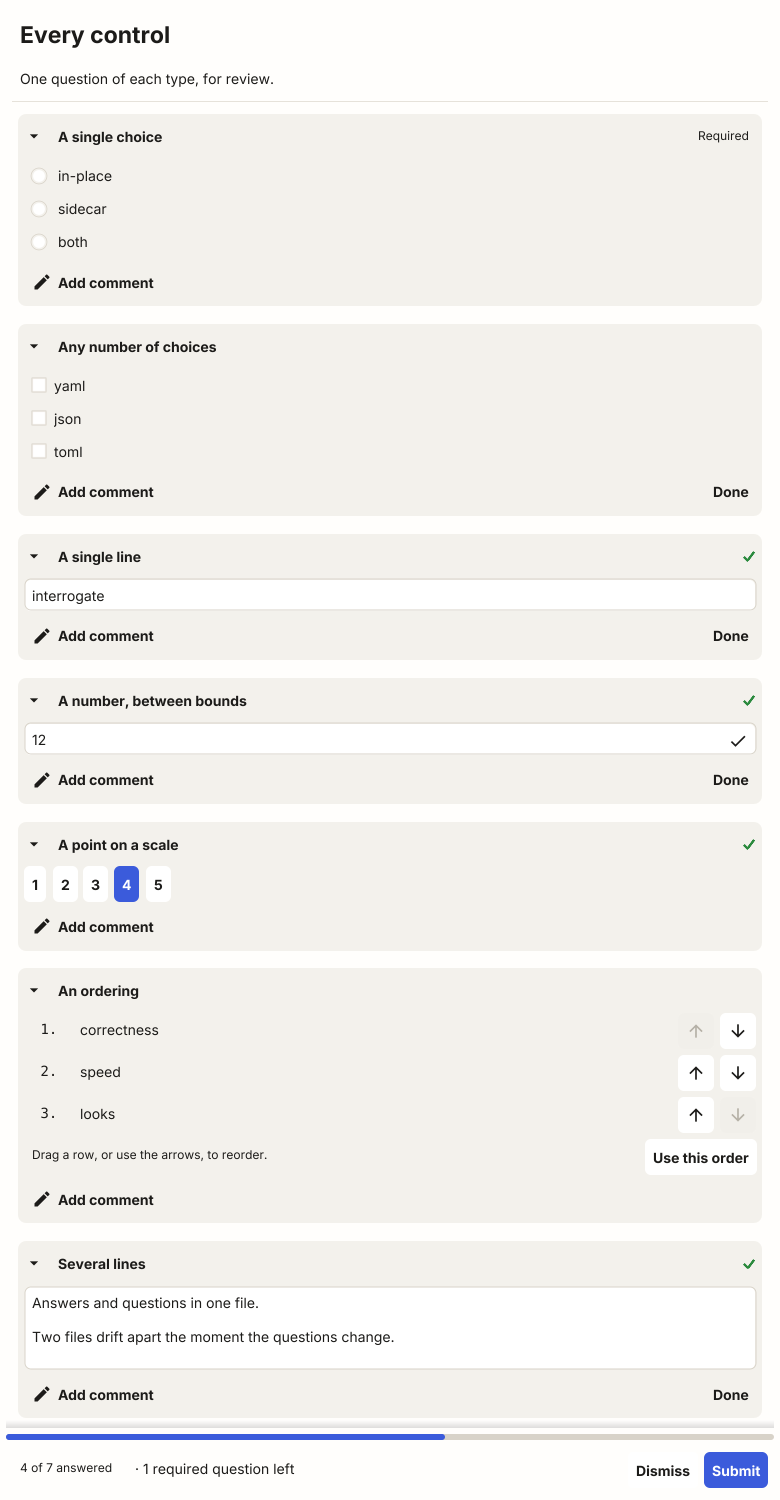
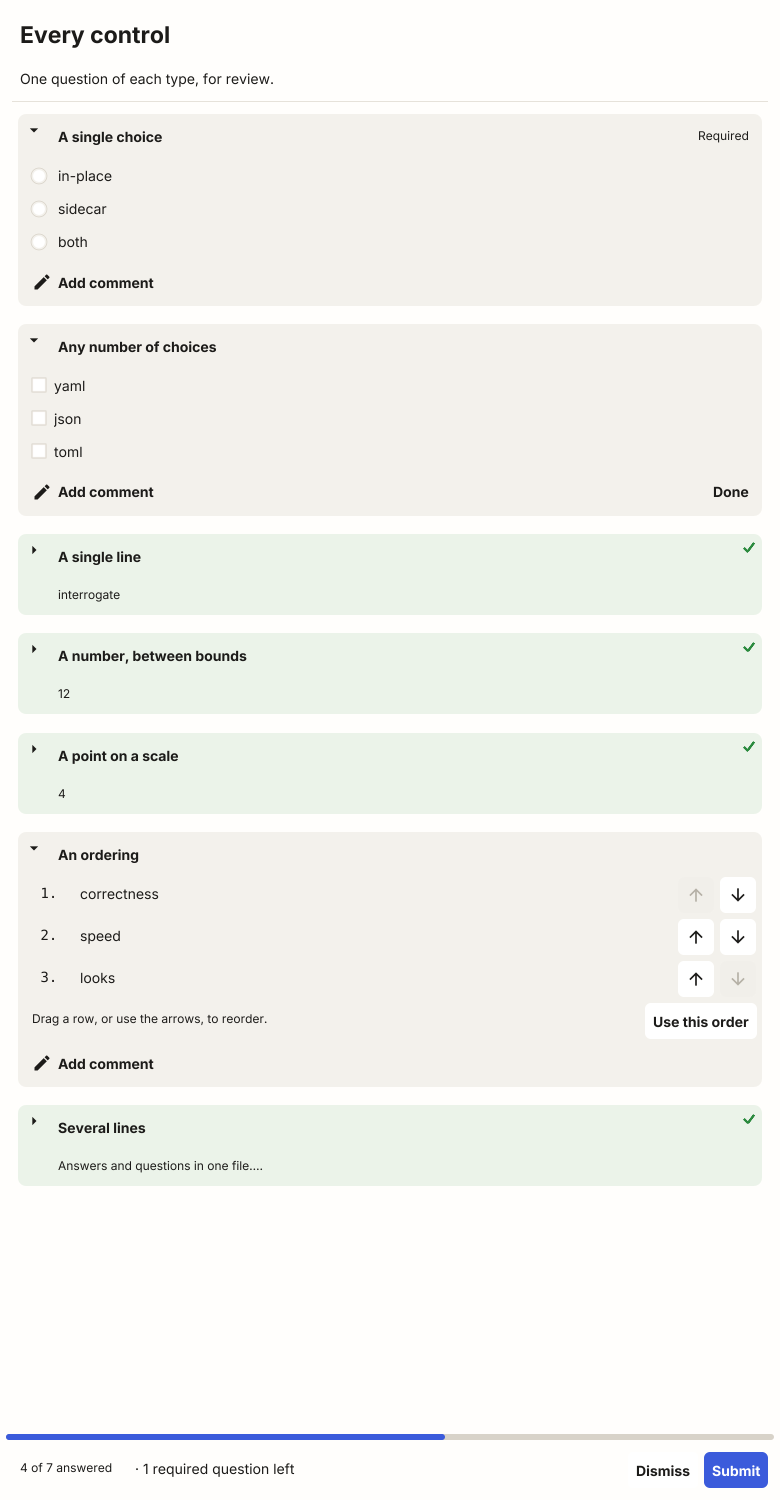
Put a collapsed question's answer under its prompt
Beside the prompt, the answer only worked for prompts short enough to
fit on one line. Most real prompts are a sentence or two, so they wrap,
and the answer ended up level with whichever line of the question it
happened to fall against -- reading as part of the question rather than
the response to it. The chevron and the tick had the same problem in the
other direction: stretched by the border to the whole height of the
card, they floated in the middle of a wrapped prompt.

The answer now sits beneath the prompt in the prompt's own column, and
the chevron and the trailing marks are boxed so they stay level with the
prompt's first line.

With a line of its own the answer can also be longer, so the preview
helper takes a limit and the summary uses a more generous one -- and,
now that it is in a column rather than a min-width row, it can truncate
against the window instead of being capped short of it.

diff --git a/internal/ui/widget_header_test.go b/internal/ui/widget_header_test.go
@@ -149,15 +149,10 @@ func TestHeaderChevronPointsTheRightWay(t *testing.T) {
 	}
 }
 
-// The answer is capped before it reaches the row, so no answer can push the
-// header wider than the window it has to sit in.
+// The answer is capped before it reaches the header, and truncates against the
+// width it is given, so no answer can push the header wider than its window.
 func TestHeaderSummaryNeverWidensThePage(t *testing.T) {
 	const windowWidth = 780 // what the form opens at
-
-	short := &questionnaire.Question{ID: "q", Prompt: "Call it what?", Type: questionnaire.TypeText}
-	h := newQuestionHeader(short, func() {})
-	h.SetCollapsed(true)
-	narrow := h.MinSize().Width
 
 	long := &questionnaire.Question{
 		ID:     "q",
@@ -165,17 +160,83 @@ func TestHeaderSummaryNeverWidensThePage(t *testing.T) {
 		Type:   questionnaire.TypeTextarea,
 		Answer: strings.Repeat("interrogate ", 40),
 	}
-	h = newQuestionHeader(long, func() {})
+	h := newQuestionHeader(long, func() {})
 	h.SetCollapsed(true)
 
-	if got := len([]rune(h.summary.Text)); got > previewLimit+1 {
-		t.Errorf("the row carries %d runes of answer, want no more than %d", got, previewLimit+1)
+	if got := len([]rune(h.summary.Text)); got > summaryLimit+1 {
+		t.Errorf("the header carries %d runes of answer, want no more than %d", got, summaryLimit+1)
+	}
+	if h.summary.Truncation != fyne.TextTruncateEllipsis {
+		t.Error("the summary should truncate against the width it is given")
 	}
 	if got := h.MinSize().Width; got > windowWidth {
 		t.Errorf("a long answer asks for %v of width, more than the %v window", got, windowWidth)
 	}
-	if h.MinSize().Width <= narrow {
-		t.Error("the summary should claim the width its text needs, or it shows nothing of the answer")
+}
+
+// A prompt long enough to wrap -- most of them, on a real questionnaire -- used
+// to strand the answer out to the right, level with a line of the question it
+// had nothing to do with. It belongs under the prompt.
+func TestTheAnswerSitsUnderThePrompt(t *testing.T) {
+	q := &questionnaire.Question{
+		ID:       "shop",
+		Type:     questionnaire.TypeSelect,
+		Required: true,
+		Prompt: "A shop displays a jacket in its window marked \"£40\". A customer takes it " +
+			"to the till and offers £40. The shop refuses to sell. In contract law, what is the display?",
+		Answer: "An invitation to treat",
+	}
+	h := newQuestionHeader(q, func() {})
+	h.SetCollapsed(true)
+
+	w := test.NewWindow(h)
+	defer w.Close()
+	w.Resize(fyne.NewSize(700, 200))
+
+	if got, want := h.summary.Position().X, h.prompt.Position().X; got != want {
+		t.Errorf("the answer starts at x=%v, want the prompt's own column at x=%v", got, want)
+	}
+	if h.summary.Position().Y <= h.prompt.Position().Y {
+		t.Errorf("the answer is at y=%v, want it below the prompt at y=%v",
+			h.summary.Position().Y, h.prompt.Position().Y)
+	}
+	if h.summary.Position().Y < h.prompt.Position().Y+h.prompt.Size().Height {
+		t.Error("the answer overlaps the prompt rather than sitting under it")
+	}
+}
+
+// The chevron and the tick belong against the prompt's first line. Left to the
+// border they stretch to the whole height of the card and float in the middle
+// of a wrapped prompt.
+func TestTheMarkersSitAgainstTheFirstLine(t *testing.T) {
+	q := &questionnaire.Question{
+		ID:       "shop",
+		Type:     questionnaire.TypeSelect,
+		Required: true,
+		Prompt:   strings.Repeat("a long prompt that has to wrap several times ", 6),
+		Answer:   "An invitation to treat",
+	}
+	h := newQuestionHeader(q, func() {})
+	h.SetCollapsed(true)
+
+	w := test.NewWindow(h)
+	defer w.Close()
+	w.Resize(fyne.NewSize(500, 300))
+
+	promptHeight := h.prompt.Size().Height
+	if promptHeight <= 0 {
+		t.Fatal("the prompt was not laid out")
+	}
+	for name, obj := range map[string]fyne.CanvasObject{
+		"chevron": h.chevron,
+		"tick":    h.tick,
+		"marker":  h.marker,
+	} {
+		// Its own line-ish: within the first line of the prompt, not halfway
+		// down a prompt that wrapped to six.
+		if got := obj.Position().Y; got > promptHeight/2 {
+			t.Errorf("the %s is at y=%v, adrift in a prompt %v tall", name, got, promptHeight)
+		}
 	}
 }
 

diff --git a/internal/ui/widget_header.go b/internal/ui/widget_header.go
@@ -23,8 +23,9 @@ import (
 // bold prompt beside a caption, a drawn mark, and an icon; Fyne's hit test
 // walks up to the nearest Tappable, so the labels inside still deliver the tap.
 //
-// Collapsed, the row is the only thing left of the question, so it carries the
-// answer as well as the prompt: a folded page reads as a review of what the
+// Collapsed, the header is the only thing left of the question, so it carries
+// the answer as well as the prompt -- on its own line beneath it, where a
+// wrapped prompt cannot strand it: a folded page reads as a review of what the
 // responder has said rather than a list of prompts.
 type questionHeader struct {
 	widget.BaseWidget
@@ -39,6 +40,7 @@ type questionHeader struct {
 	note    *widget.Icon
 	tick    *tickMark
 
+	stack      *fyne.Container // the prompt, with the answer beneath it
 	row        *fyne.Container
 	background *canvas.Rectangle
 
@@ -56,11 +58,12 @@ func newQuestionHeader(q *questionnaire.Question, onTap func()) *questionHeader 
 	h.prompt.TextStyle = fyne.TextStyle{Bold: true}
 	h.prompt.Wrapping = fyne.TextWrapWord
 
-	// The summary asks for the width its text needs, which answerSummary has
-	// already capped. Fyne's own truncation is no use here: a truncating label
-	// reports almost no minimum width, so beside the prompt it collapses to a
-	// bare ellipsis and shows none of the answer.
+	// The summary has a line of its own beneath the prompt, so it can take the
+	// width that is left and truncate against it. (Beside the prompt it could
+	// not: a truncating label reports almost no minimum width, and in a row
+	// driven by minimum widths it collapsed to a bare ellipsis.)
 	h.summary = captionLabel("")
+	h.summary.Truncation = fyne.TextTruncateEllipsis
 
 	// The same icon the comment toggle uses, so a folded question says "there
 	// is a note in here" in the vocabulary the open one taught.
@@ -68,7 +71,7 @@ func newQuestionHeader(q *questionnaire.Question, onTap func()) *questionHeader 
 
 	h.tick = newTickMark()
 
-	trailing := []fyne.CanvasObject{h.summary}
+	var trailing []fyne.CanvasObject
 	if q.Required {
 		// The required marker sits on the prompt's own line. On its own row it
 		// read as another instruction to take in; up here it is just a label.
@@ -78,7 +81,19 @@ func newQuestionHeader(q *questionnaire.Question, onTap func()) *questionHeader 
 	}
 	trailing = append(trailing, h.note, h.tick)
 
-	h.row = container.NewBorder(nil, nil, h.chevron, container.NewHBox(trailing...), h.prompt)
+	// The answer goes under the prompt rather than beside it. A prompt long
+	// enough to wrap -- which is most of them, on a real questionnaire -- left
+	// the answer stranded out to the right, level with a line of the question
+	// it had nothing to do with.
+	h.stack = container.NewVBox(h.prompt, h.summary)
+
+	// Both the chevron and the trailing group are boxed so they sit against the
+	// prompt's first line. Left to the border they stretch to the full height
+	// of the card and end up floating in the middle of a wrapped prompt.
+	h.row = container.NewBorder(nil, nil,
+		container.NewVBox(h.chevron),
+		container.NewVBox(container.NewHBox(trailing...)),
+		h.stack)
 	h.sync()
 	return h
 }

diff --git a/internal/ui/summary.go b/internal/ui/summary.go
@@ -8,6 +8,12 @@ import (
 	"github.com/markwylde/interrogate/internal/questionnaire"
 )
 
+// summaryLimit is how much of an answer a collapsed question shows. Longer than
+// the comment preview because the answer has a line to itself, and generous
+// enough that most answers arrive whole; the label truncates against the window
+// if one does not.
+const summaryLimit = 120
+
 // answerSummary renders a question's answer on one line, for the header of a
 // collapsed question.
 //
@@ -16,12 +22,15 @@ import (
 // value printed. An unanswered question summarises to nothing: the header shows
 // the prompt alone, and its lack of a tick says the rest.
 //
-// Shortening goes through the same preview helper the collapsed comment uses, so
-// a long answer and a long comment truncate identically.
+// Shortening goes through the same helper the collapsed comment uses, at a
+// longer limit: the answer sits on a line of its own under the prompt, so there
+// is room for most answers in full.
 func answerSummary(q *questionnaire.Question) string {
 	if q == nil || !q.HasAnswer() {
 		return ""
 	}
+
+	shorten := func(text string) string { return previewTo(text, summaryLimit) }
 
 	switch q.Type {
 	case questionnaire.TypeBoolean:
@@ -41,7 +50,7 @@ func answerSummary(q *questionnaire.Question) string {
 		}
 	case questionnaire.TypeMultiselect:
 		if v, ok := q.Answer.([]string); ok {
-			return preview(strings.Join(v, ", "))
+			return shorten(strings.Join(v, ", "))
 		}
 	case questionnaire.TypeRank:
 		if v, ok := q.Answer.([]string); ok {
@@ -49,15 +58,15 @@ func answerSummary(q *questionnaire.Question) string {
 			for i, option := range v {
 				ranked = append(ranked, fmt.Sprintf("%d. %s", i+1, option))
 			}
-			return preview(strings.Join(ranked, ", "))
+			return shorten(strings.Join(ranked, ", "))
 		}
 	case questionnaire.TypeSelect, questionnaire.TypeText, questionnaire.TypeTextarea:
 		if v, ok := q.Answer.(string); ok {
-			return preview(v)
+			return shorten(v)
 		}
 	}
 
 	// An answer of an unexpected shape is still worth showing: better a
 	// printed value than a question that looks unanswered.
-	return preview(fmt.Sprint(q.Answer))
+	return shorten(fmt.Sprint(q.Answer))
 }

diff --git a/internal/ui/summary_test.go b/internal/ui/summary_test.go
@@ -120,8 +120,8 @@ func TestAnswerSummaryIsOneShortLine(t *testing.T) {
 	if !strings.HasSuffix(got, "…") {
 		t.Errorf("summary = %q, want it truncated with an ellipsis", got)
 	}
-	if len([]rune(got)) > previewLimit+1 {
-		t.Errorf("summary is %d runes, want no more than %d", len([]rune(got)), previewLimit+1)
+	if len([]rune(got)) > summaryLimit+1 {
+		t.Errorf("summary is %d runes, want no more than %d", len([]rune(got)), summaryLimit+1)
 	}
 
 	multi := questionnaire.Question{Type: questionnaire.TypeTextarea, Answer: "first line\nsecond line"}
@@ -135,10 +135,19 @@ func TestAnswerSummaryIsOneShortLine(t *testing.T) {
 
 	many := questionnaire.Question{
 		Type:   questionnaire.TypeMultiselect,
-		Answer: []string{"one option", "two option", "three option", "four option", "five option"},
+		Answer: []string{strings.Repeat("option, ", 40)},
 	}
-	if got := answerSummary(&many); len([]rune(got)) > previewLimit+1 {
+	if got := answerSummary(&many); len([]rune(got)) > summaryLimit+1 {
 		t.Errorf("a long multiselect summary is %d runes: %q", len([]rune(got)), got)
+	}
+
+	// The comment preview keeps its own, shorter limit: it shares a row with a
+	// toggle, where the answer has a line to itself.
+	if summaryLimit <= previewLimit {
+		t.Errorf("summaryLimit %d should be longer than the comment's %d", summaryLimit, previewLimit)
+	}
+	if got := preview(strings.Repeat("a", 200)); len([]rune(got)) > previewLimit+1 {
+		t.Errorf("the comment preview grew to %d runes", len([]rune(got)))
 	}
 }
 

diff --git a/internal/ui/widget_comment.go b/internal/ui/widget_comment.go
@@ -143,17 +143,24 @@ func (c *commentField) focus() {
 }
 
 // preview renders the start of a comment on one line.
-func preview(text string) string {
+func preview(text string) string { return previewTo(text, previewLimit) }
+
+// previewTo renders the start of some text on one line, no longer than limit.
+//
+// The collapsed comment and a collapsed question's answer both need this, but
+// not at the same length: the comment shares its row with a toggle, while the
+// answer has a line of its own to spend.
+func previewTo(text string, limit int) string {
 	line := text
 	if i := strings.IndexByte(line, '\n'); i >= 0 {
 		line = strings.TrimSpace(line[:i])
 	}
 	runes := []rune(line)
-	if len(runes) <= previewLimit {
+	if len(runes) <= limit {
 		if len(runes) < len([]rune(text)) {
 			return line + "…" // there were further lines
 		}
 		return line
 	}
-	return strings.TrimRight(string(runes[:previewLimit]), " ") + "…"
+	return strings.TrimRight(string(runes[:limit]), " ") + "…"
 }

diff --git a/openspec/specs/interrogate-cli/spec.md b/openspec/specs/interrogate-cli/spec.md
@@ -48,7 +48,7 @@ It SHALL also accept a `--validate` flag, which checks the questionnaire and exi
 
 All questions SHALL be presented together on one vertically scrolling page, so the responder can read ahead, answer in any order, and revise earlier answers before submitting.
 
-A question MAY be presented collapsed to a single row rather than at full height, provided every question is still on the page in its document order and can be returned to full height in one action. Collapsing SHALL NOT remove a question from the page, reorder it, or prevent it from being answered or revised.
+A question MAY be presented collapsed to its prompt and the answer it carries, rather than at full height, provided every question is still on the page in its document order and can be returned to full height in one action. Collapsing SHALL NOT remove a question from the page, reorder it, or prevent it from being answered or revised.
 
 #### Scenario: Questions exceed the window height
 - **WHEN** the questionnaire is taller than the window
@@ -296,7 +296,7 @@ Scrolling the questionnaire SHALL continue to work wherever the pointer rests, i
 ### Requirement: Questions can be collapsed and expanded
 
 
-Each question SHALL have an expanded presentation, showing its prompt, help, answer control and comment field, and a collapsed presentation occupying a single row.
+Each question SHALL have an expanded presentation, showing its prompt, help, answer control and comment field, and a collapsed presentation carrying only its prompt, the answer it holds, and the marks that describe it.
 
 When the questionnaire opens, a question that already carries an answer SHALL be presented collapsed, and a question with no answer SHALL be presented expanded. A questionnaire therefore opens showing what is left to do rather than what is already settled, and nothing outstanding is hidden from a responder seeing the page for the first time. A comment is not an answer for this purpose.
 
@@ -320,7 +320,7 @@ Each question's header SHALL act as a control that collapses it when expanded an
 
 #### Scenario: Collapsing by hand
 - **WHEN** the responder activates the header of an expanded question
-- **THEN** that question collapses to a single row and its control, help text and comment field are no longer shown
+- **THEN** that question collapses to its prompt and answer, and its control, help text and comment field are no longer shown
 
 #### Scenario: Expanding by hand
 - **WHEN** the responder activates the header of a collapsed question
@@ -393,30 +393,35 @@ Clearing a question's answer SHALL NOT collapse it.
 
 ### Requirement: A collapsed question shows what was answered
 
-
 A collapsed question SHALL show its prompt, a single-line rendering of the answer it carries, and a mark distinguishing an answered question from an unanswered one, so that a page of collapsed questions reads as a review of what the responder has said.
 
-The completion mark SHALL be positioned consistently at the trailing edge of the row, SHALL be shown only for a question that carries an answer, and SHALL be drawn in a colour that reads as success in both the light and dark presentations.
+The answer SHALL be presented beneath the prompt, in the prompt's own column, rather than beside it. Most prompts on a real questionnaire are long enough to wrap, and an answer set beside one is left level with whichever line of the question it happens to fall against, reading as part of it.
 
-A collapsed question that carries an answer SHALL additionally be presented on a panel whose colour reads as settled — the card colour with a green cast — so a page of collapsed rows can be read at a glance rather than mark by mark. That colour SHALL be distinguishable from the ordinary card colour and SHALL remain quiet enough not to compete with the row's own content, in both presentations. A collapsed question with no answer SHALL keep the ordinary card colour, so putting a question aside never looks like finishing it.
+The completion mark SHALL be positioned consistently at the trailing edge, SHALL be aligned with the first line of the prompt rather than with the middle of a wrapped one, SHALL be shown only for a question that carries an answer, and SHALL be drawn in a colour that reads as success in both the light and dark presentations. Any other marks the collapsed question carries, and the control that folds it, SHALL be aligned the same way.
+
+A collapsed question that carries an answer SHALL additionally be presented on a panel whose colour reads as settled — the card colour with a green cast — so a page of collapsed questions can be read at a glance rather than mark by mark. That colour SHALL be distinguishable from the ordinary card colour and SHALL remain quiet enough not to compete with the question's own content, in both presentations. A collapsed question with no answer SHALL keep the ordinary card colour, so putting a question aside never looks like finishing it.
 
 An answer too long for one row SHALL be shortened rather than wrapped or allowed to widen the page.
 
 #### Scenario: An answered question collapsed
 - **WHEN** an answered question is collapsed
-- **THEN** its row shows the prompt, a rendering of the answer, and the completion mark
+- **THEN** it shows the prompt, a rendering of the answer beneath it, and the completion mark
 
 #### Scenario: An unanswered question collapsed
 - **WHEN** an unanswered question is collapsed
-- **THEN** its row shows the prompt and no completion mark
+- **THEN** it shows the prompt and no completion mark
 
 #### Scenario: Every type has a one-line answer rendering
 - **WHEN** a collapsed question is of any of the supported types, including a `multiselect` with several options chosen and a `rank` with a confirmed order
-- **THEN** its answer is rendered on the single row in a form a reader can recognise as that answer
+- **THEN** its answer is rendered on one line in a form a reader can recognise as that answer
 
 #### Scenario: A long answer
-- **WHEN** a collapsed question's answer is longer than the row can show
+- **WHEN** a collapsed question's answer is longer than the space it has
 - **THEN** it is shortened to fit, and the page does not scroll sideways or grow taller for it
+
+#### Scenario: A prompt long enough to wrap
+- **WHEN** a collapsed question's prompt wraps onto several lines
+- **THEN** its answer stays beneath the prompt in the prompt's own column, and the completion mark and the fold control stay level with the prompt's first line
 
 #### Scenario: Reviewing by scanning
 - **WHEN** the responder has answered and collapsed several questions

diff --git a/README.md b/README.md
@@ -136,8 +136,8 @@ Each question sits on its own card, so they stay distinct while you scroll.
 Cards **fold as you finish with them**, so the page is always a list of what is
 left. A questionnaire opens with anything already answered folded and everything
 outstanding open. Pick an option, a yes or no, a point on a scale, or confirm a
-ranking, and that question drops to a single line too — its prompt, the answer
-you gave, and a green tick, on a card tinted faintly green. A question you fold
+ranking, and that question folds too — down to its prompt, the answer you gave
+on the line beneath it, and a green tick, on a card tinted faintly green. A question you fold
 with nothing answered keeps the ordinary colour: putting something aside is not
 the same as finishing it.
 
